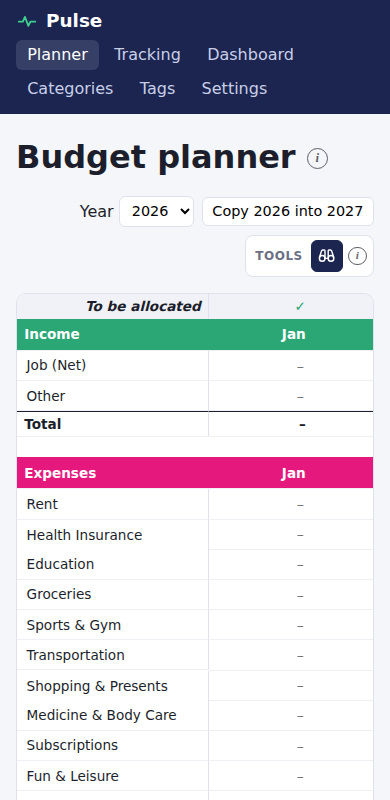
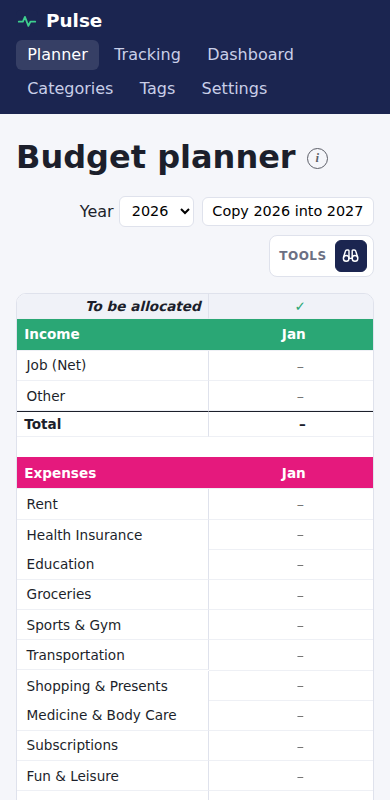
Toolbox: drop the info button, explain tools in their hover text
Claude-Session: https://claude.ai/code/session_01HV68be6yRbE5QzRPwRCFiX

Changed region(s): [[0.6462, 0.2812, 0.9538, 0.3438]]

diff --git a/src/pages/PlannerPage.tsx b/src/pages/PlannerPage.tsx
@@ -227,15 +227,14 @@ export default function PlannerPage() {
               type="button"
               className="tool"
               aria-pressed={lens}
-              title={lens ? 'Binoculars on: hover a number to see its share of income' : 'Binoculars: see each number as a share of income'}
+              title={
+                (lens ? 'Binoculars (on). ' : 'Binoculars. ') +
+                "Hover a number to see its share of income: month cells against that month's income, the Year and Avg/month columns against the year's income."
+              }
               onClick={() => setLens((on) => !on)}
             >
               <BinocularsIcon />
             </button>
-            <Info>
-              Binoculars: while on, hover a number (or tap it on a phone) to see what share of income it is. Month
-              cells compare with that month's income; the year and Avg/month columns with the year's income.
-            </Info>
           </div>
         </div>
       </div>
